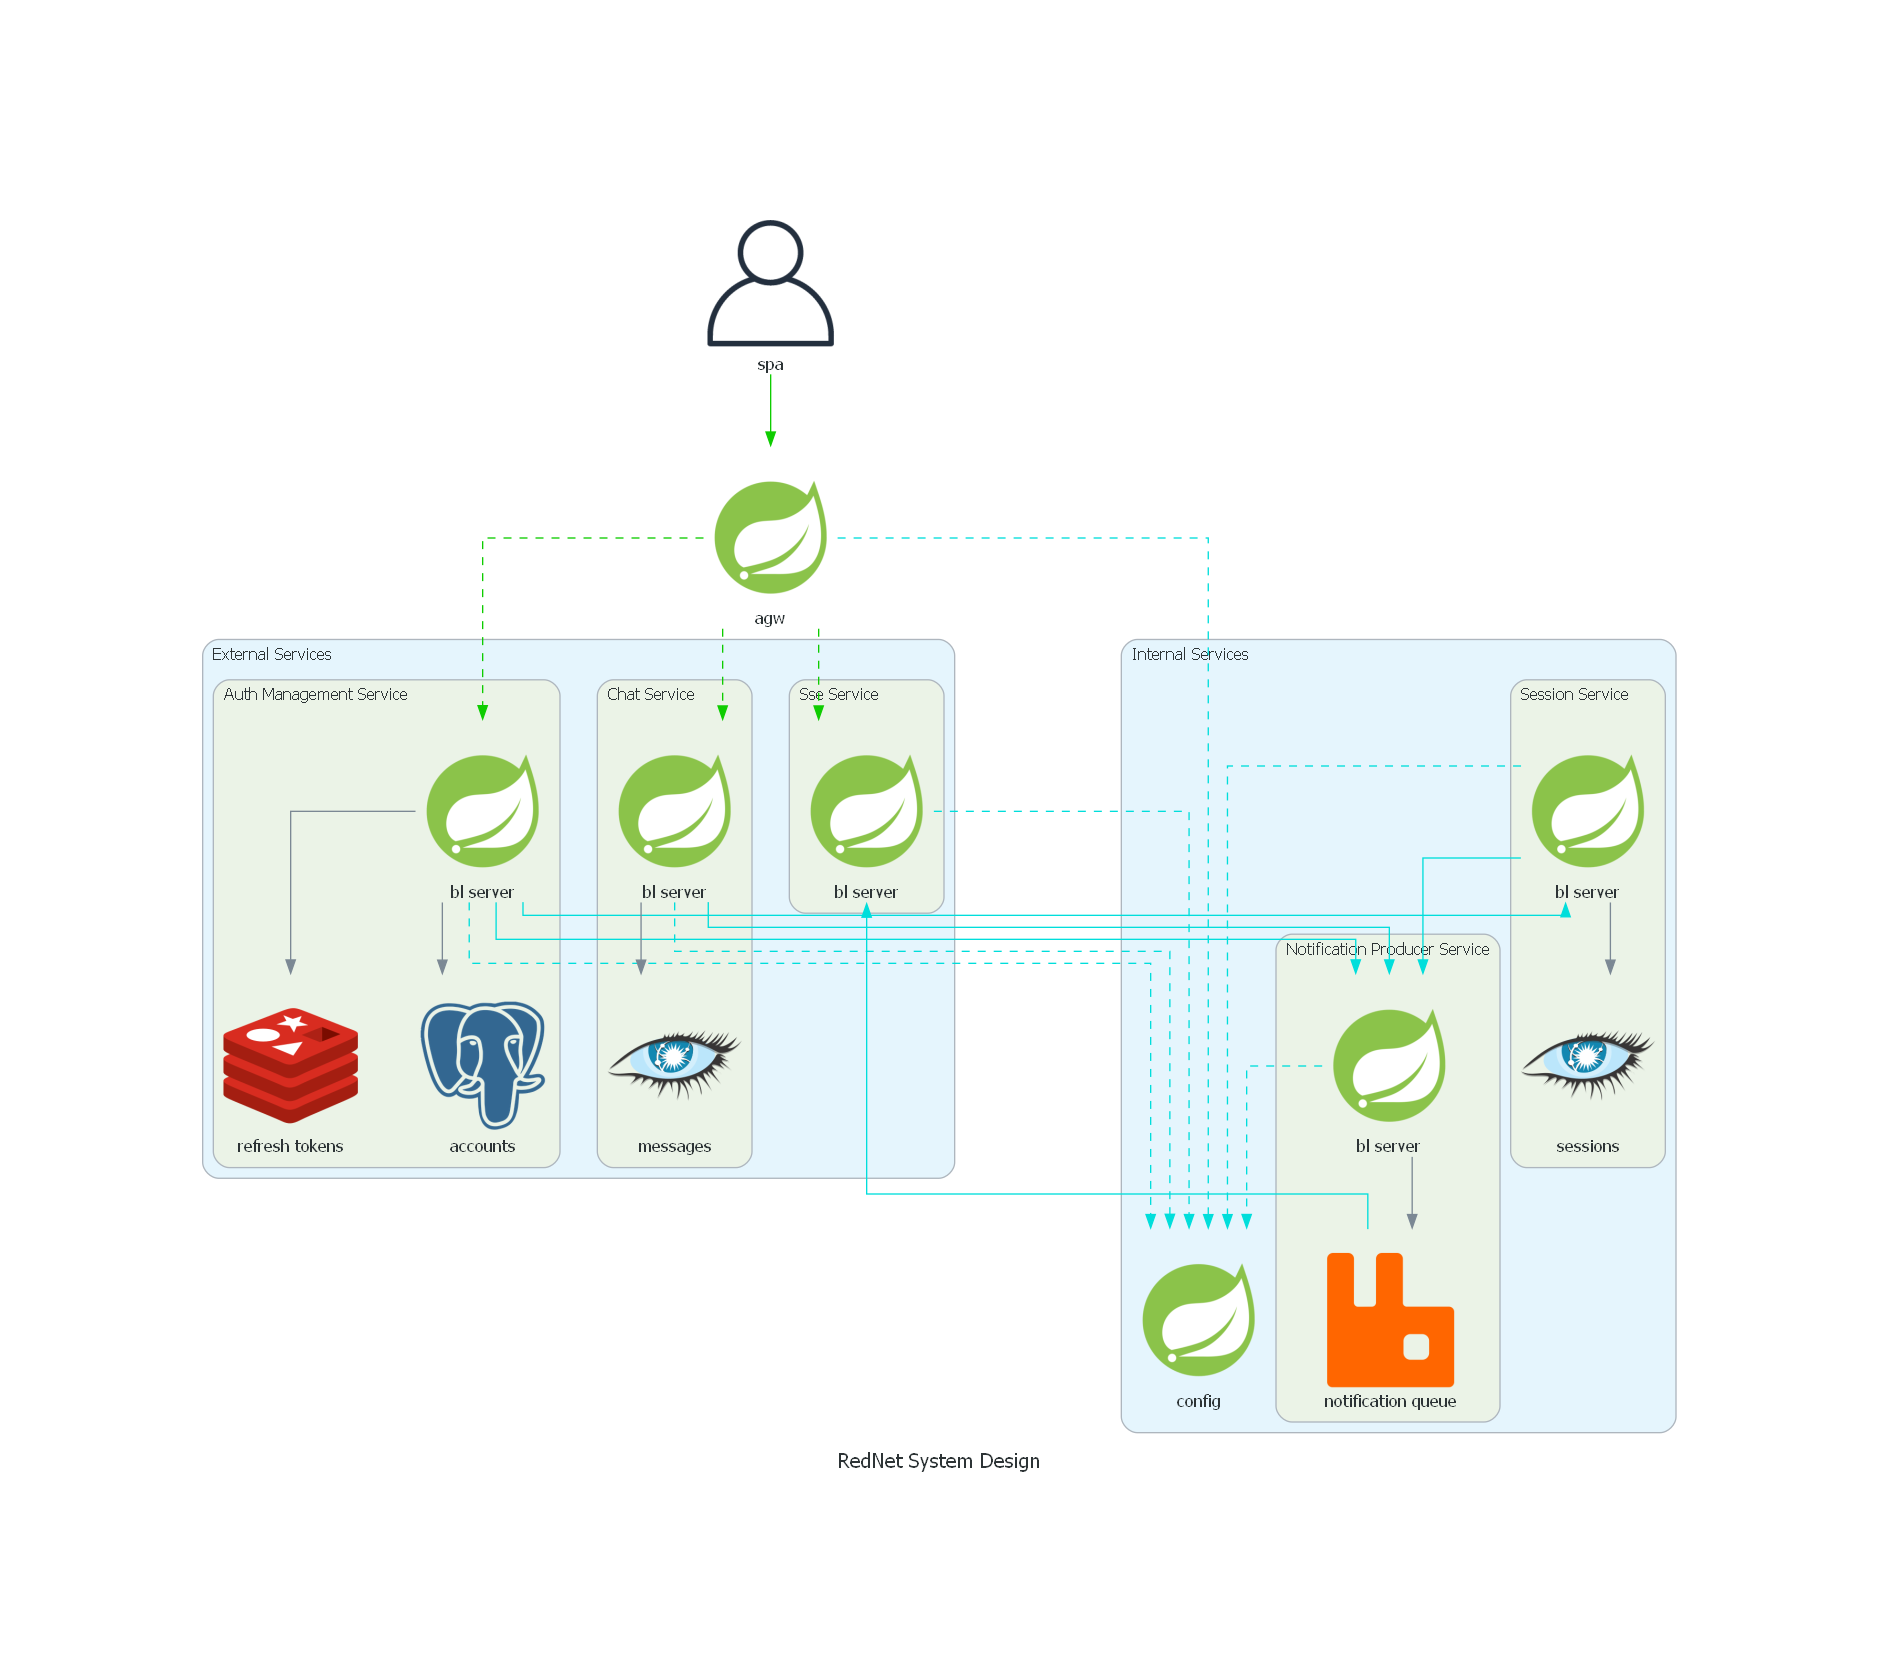
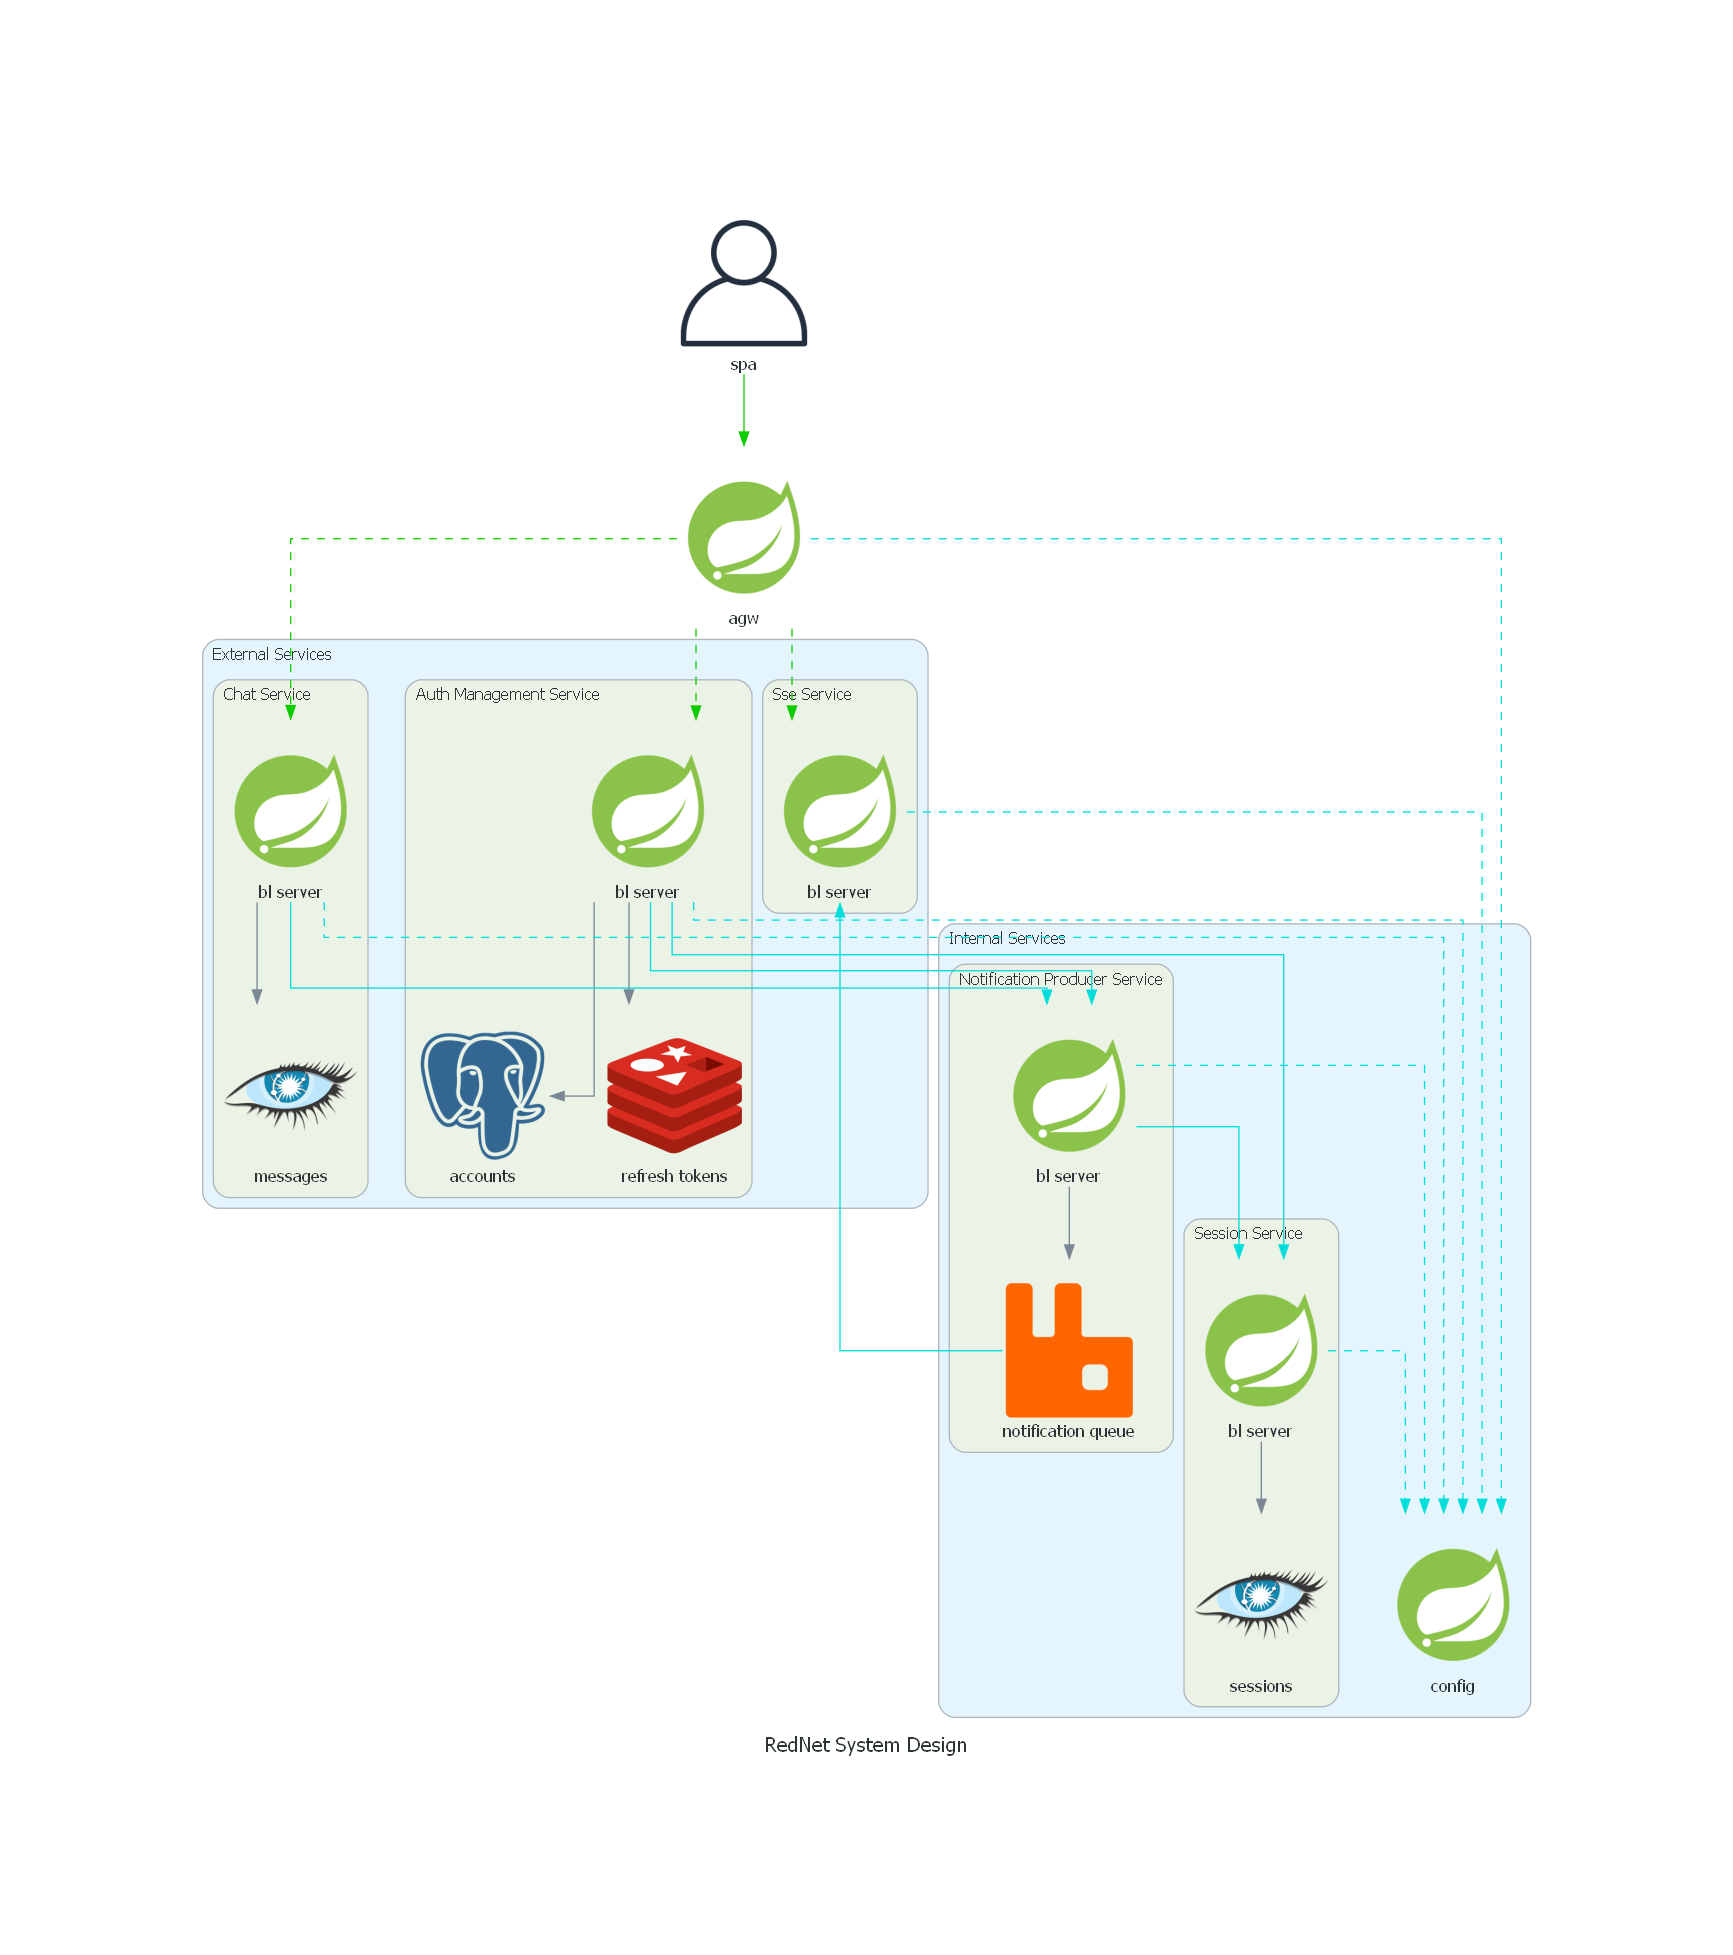
diagram change

Changed region(s): [[0.0935, 0.0934, 0.9036, 0.903]]

diff --git a/system-design-diagram.py b/system-design-diagram.py
@@ -25,12 +25,16 @@ with Diagram(
             accounts_db = Postgresql("accounts")
             refresh_tokens_db = Redis("refresh tokens")
 
+            auth_logic_server >> [accounts_db, refresh_tokens_db]
+
         with Cluster("Sse Service"):
             sse_logic_server = Spring("bl server")
 
         with Cluster("Chat Service"):
             chat_logic_server = Spring("bl server")
             messages_db = Cassandra("messages")
+
+            chat_logic_server >> messages_db
 
     with Cluster("Internal Services"):
         config_service = Spring("config")
@@ -39,11 +43,15 @@ with Diagram(
             notification_logic_server = Spring("bl server")
             notification_queue = RabbitMQ("notification queue")
 
+            notification_logic_server >> notification_queue
+
         with Cluster("Session Service"):
             session_logic_server = Spring("bl server")
             sessions_db = Cassandra("sessions")
 
-    client_service_group = [
+            session_logic_server >> sessions_db
+
+    external_service_group = [
         auth_logic_server,
         sse_logic_server,
         chat_logic_server
@@ -51,7 +59,6 @@ with Diagram(
 
     notifiable_service_group = [
         auth_logic_server,
-        session_logic_server,
         chat_logic_server
     ]
 
@@ -64,13 +71,9 @@ with Diagram(
         notification_logic_server
     ]
 
-    client >> client_request_edge >> agw >> client_proxied_request_edge >> client_service_group
+    client >> client_request_edge >> agw >> client_proxied_request_edge >> external_service_group
     auth_logic_server >> server_to_server_edge >> session_logic_server
-    auth_logic_server >> accounts_db
-    auth_logic_server >> refresh_tokens_db
-    chat_logic_server >> messages_db
-    session_logic_server >> sessions_db
-    notifiable_service_group >> server_to_server_edge >> notification_logic_server >> notification_queue
+    notifiable_service_group >> server_to_server_edge >> notification_logic_server
+    notification_logic_server >> server_to_server_edge >> session_logic_server
     notification_queue >> server_to_server_edge >> sse_logic_server
     configurable_service_group >> Edge(style="dashed", color="#00DEDB") >> config_service
-
